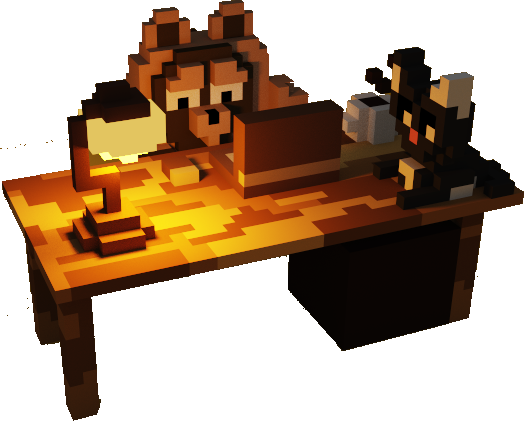
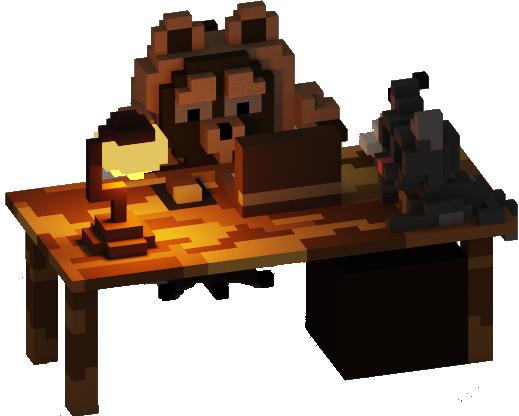
commit

diff --git a/src/components/scene/Scene.jsx b/src/components/scene/Scene.jsx
@@ -12,7 +12,7 @@ function Scene() {
   return (
     <Canvas 
        
-      camera={{ position: [-5, 4, -10], fov: 35 }}>
+      camera={{ position: [-5, 4, -10], fov: 32 }}>
 
       <ambientLight intensity={0.3} />
 
